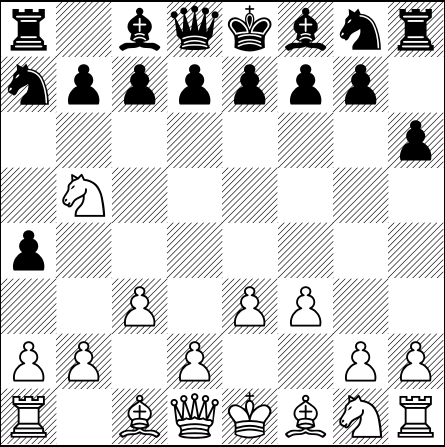
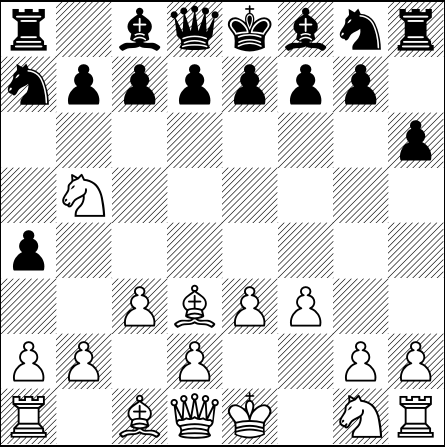
[automated] Regenerate text/pdf for chessboard

Changed region(s): [[0.6427, 0.8725, 0.7303, 0.9888], [0.3798, 0.6398, 0.4966, 0.7562]]

diff --git a/default_filepath.tex b/default_filepath.tex
@@ -13,6 +13,6 @@
 \normalsize%
 \setchessboard{showmover=false}%
 \newgame%
-\fenboard{r1bqkbnr/npppppp1/7p/1N6/p7/2P1PP2/PP1P2PP/R1BQKBNR w KQkq - 1 6}%
+\fenboard{r1bqkbnr/npppppp1/7p/1N6/p7/2PBPP2/PP1P2PP/R1BQK1NR b KQkq - 2 6}%
 \chessboard%
 \end{document}
